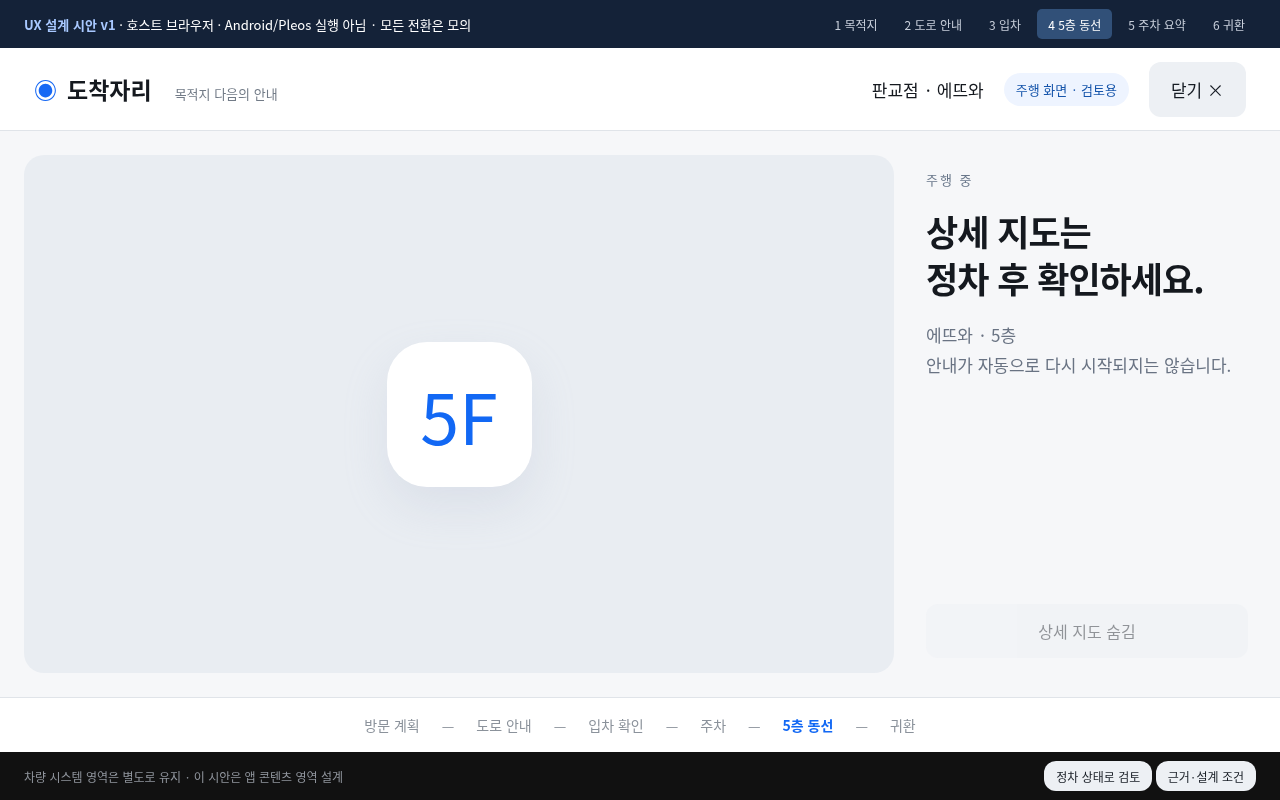
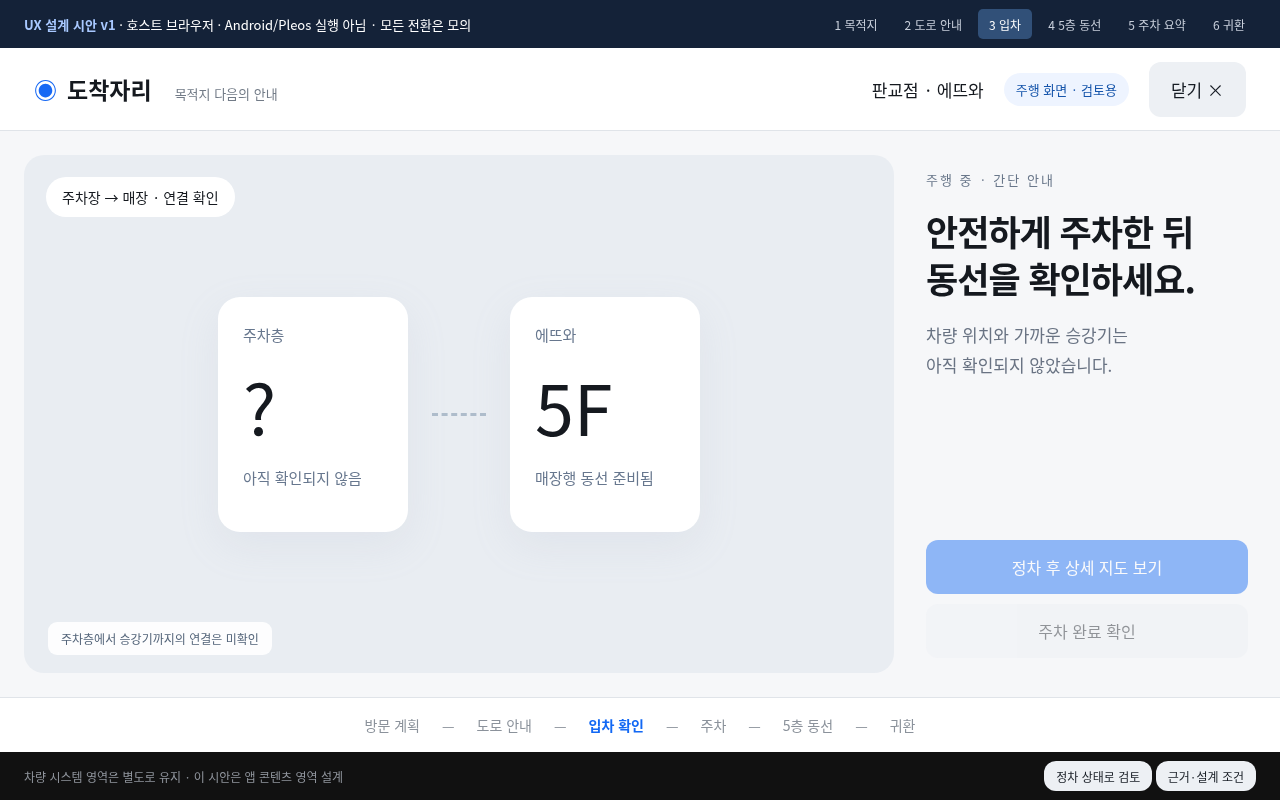
design: keep guidance dismissed when returning to stopped state [skip ci]

diff --git a/docs/ux/arrival-v1/prototype.html b/docs/ux/arrival-v1/prototype.html
@@ -21,7 +21,7 @@ if(stage===3){if(driving){scene=`<div class="specimen"><div class="arrival-icon"
 if(stage===4||stage===5){eye=stage===4?'주차 확인':'차로 돌아갈 때';title=stage===4?'주차 기록을<br>남겨둘까요?':'기억해 둔 단서를<br>다시 확인하세요.';desc=stage===4?'주차한 층이나 표지는<br>직접 확인한 내용만 남깁니다.':'정확한 주차 위치가 없으면<br>현장 안내와 저장한 메모를 확인합니다.';scene=`<div class="place">${stage===4?'주차 요약':'귀환 기록'} · 판교점 방문</div><div class="summary"><div class="car">P<span style="font-size:25px;color:#a7b3c4">?</span></div><h2>${saved?'주차 기록을 남겼어요':'위치 단서는 아직 없어요'}</h2><div class="unknowns"><div>주차층<b>미확인</b></div><div>기둥·구역<b>미확인</b></div><div>승강 연결<b>미확인</b></div></div><div class="saved">${saved?'위치 미확인으로 남긴 기록 · 브라우저 모의 저장':'관측된 글자를 위치로 자동 확정하지 않습니다'}</div></div>`;actions=stage===4?`<button class="primary" ${driving?'disabled':''} onclick="saved=true;setStage(5)">위치 미확인으로 기록 · 시안</button><button onclick="closeGuide()">안내 닫기</button>`:`<button class="primary" ${driving?'disabled':''} onclick="setStage(3)">5층 매장행 동선 다시 보기</button><button onclick="closeGuide()">기록 유지하고 닫기 · 시안</button><p class="tiny">현재 위치·차량 복귀 경로는 미확인입니다.</p>`;if(driving){scene='<div class="specimen"><div class="arrival-icon">P</div></div>';title='주차 기록은<br>정차 후 확인하세요.';desc='주행 중에는 단서와 편집 화면을 숨깁니다.';actions='<button disabled>정차 후 기록 보기</button>';}}
 document.querySelector('#scene').innerHTML=scene;document.querySelector('#panel').innerHTML=`<div class="eyebrow">${eye}</div><h1>${title}</h1><p>${desc}</p><div class="actions">${actions}</div>`;document.querySelector('#journey').innerHTML=['방문 계획','도로 안내','입차 확인','주차','5층 동선','귀환'].map((v,i)=>`<${i===[0,1,2,4,3,5][stage]?'strong':'span'}>${v}</${i===[0,1,2,4,3,5][stage]?'strong':'span'}>`).join('<span>—</span>');if(stage===3&&!driving)replay();}
 function replay(){const p=document.querySelector('#route');if(!p)return;animation?.cancel();const len=p.getTotalLength();if(matchMedia('(prefers-reduced-motion: reduce)').matches)return;animation=p.animate([{strokeDasharray:len,strokeDashoffset:len},{strokeDasharray:len,strokeDashoffset:0}],{duration:4500,fill:'forwards',easing:'ease-in-out'});}
-function toggleDrive(){driving=!driving;document.querySelector('#drive').textContent=driving?'정차 상태로 검토':'주행 상태 검토';render()}
+function toggleDrive(){driving=!driving;if([3,4,5].includes(stage))stage=2;document.querySelector('#drive').textContent=driving?'정차 상태로 검토':'주행 상태 검토';render()}
 function closeGuide(){animation?.cancel();document.querySelector('#scene').innerHTML='<div class="specimen"><div><h2>안내를 닫았습니다</h2><p>기록은 유지 · 관측/지도 자동 재개 없음</p><button onclick="setStage(0)">목적지 화면 · 직접 열기</button></div></div>';document.querySelector('#panel').innerHTML='<h1>필요할 때<br>다시 여세요.</h1><p>닫기는 방문 기록 삭제와 구분합니다.<br>이 전환은 UX 시안의 모의 동작입니다.</p>';}
 function toast(t){const n=document.querySelector('#notice');n.textContent=t;n.classList.add('show');setTimeout(()=>n.classList.remove('show'),3200)}function details(){document.querySelector('#detail').classList.toggle('open')}render();
 </script></html>

diff --git a/docs/10-development-log.md b/docs/10-development-log.md
@@ -715,3 +715,5 @@
 - 지도중심/행동카드6장면을독립HTML로설계했다. 공식스타일인증이아닌Pleos참고형제안이며내비내부카드/분할은조건부미확인,기본정상앱전환과구분했다. 도로는구성모형이고실제경로가아니다. 5층은기존14점/블록을재사용했고미확인주차층/호기·위치/복귀선을만들지않았다.
 - file URL이관리정책으로차단돼설정을변경하지않고정상루프백HTTP서버/Chromium·Playwright로렌더링했다.6장면·경로재생/완료·주행상세숨김/계획조작제한·닫기경로제거를확인했다. 호스트시안8PNG를확보했고실제Android/Pleos성공으로세지않는다. 원본출처/hash는ux/arrival-v1/review.json에보관한다.
 - 긴텍스트/테스트조작·UUID/SQLite정보를사용자화면에서분리하는규칙,안전상태/모션/데이터부족동작과공식내비연결확인게이트를docs24에기록했다. README/docs08/09/12/18·PR을설계수준으로갱신하고문서/시안만[skip ci]로기록한다. 앱84acdd3와기존설정/방문/알림/사용자데이터·APK보존/자동병합없음. 다음은시안검토반영·정상플랫폼지원범위확인후Android UI적용이다.
+
+- UX최종검토에서주행→정차토글이상세지도자동재생으로돌아갈수있는시안동작을발견했다. 간단안내상태로유지하고명시열기후에만상세재생하도록수정했다. 별도호스트브라우저검사로주행숨김→정차시닫힘유지→명시열기→닫기중지를PASS했고07캡처/해시를갱신했다. Android코드/검사는변경/재실행하지않았다.
